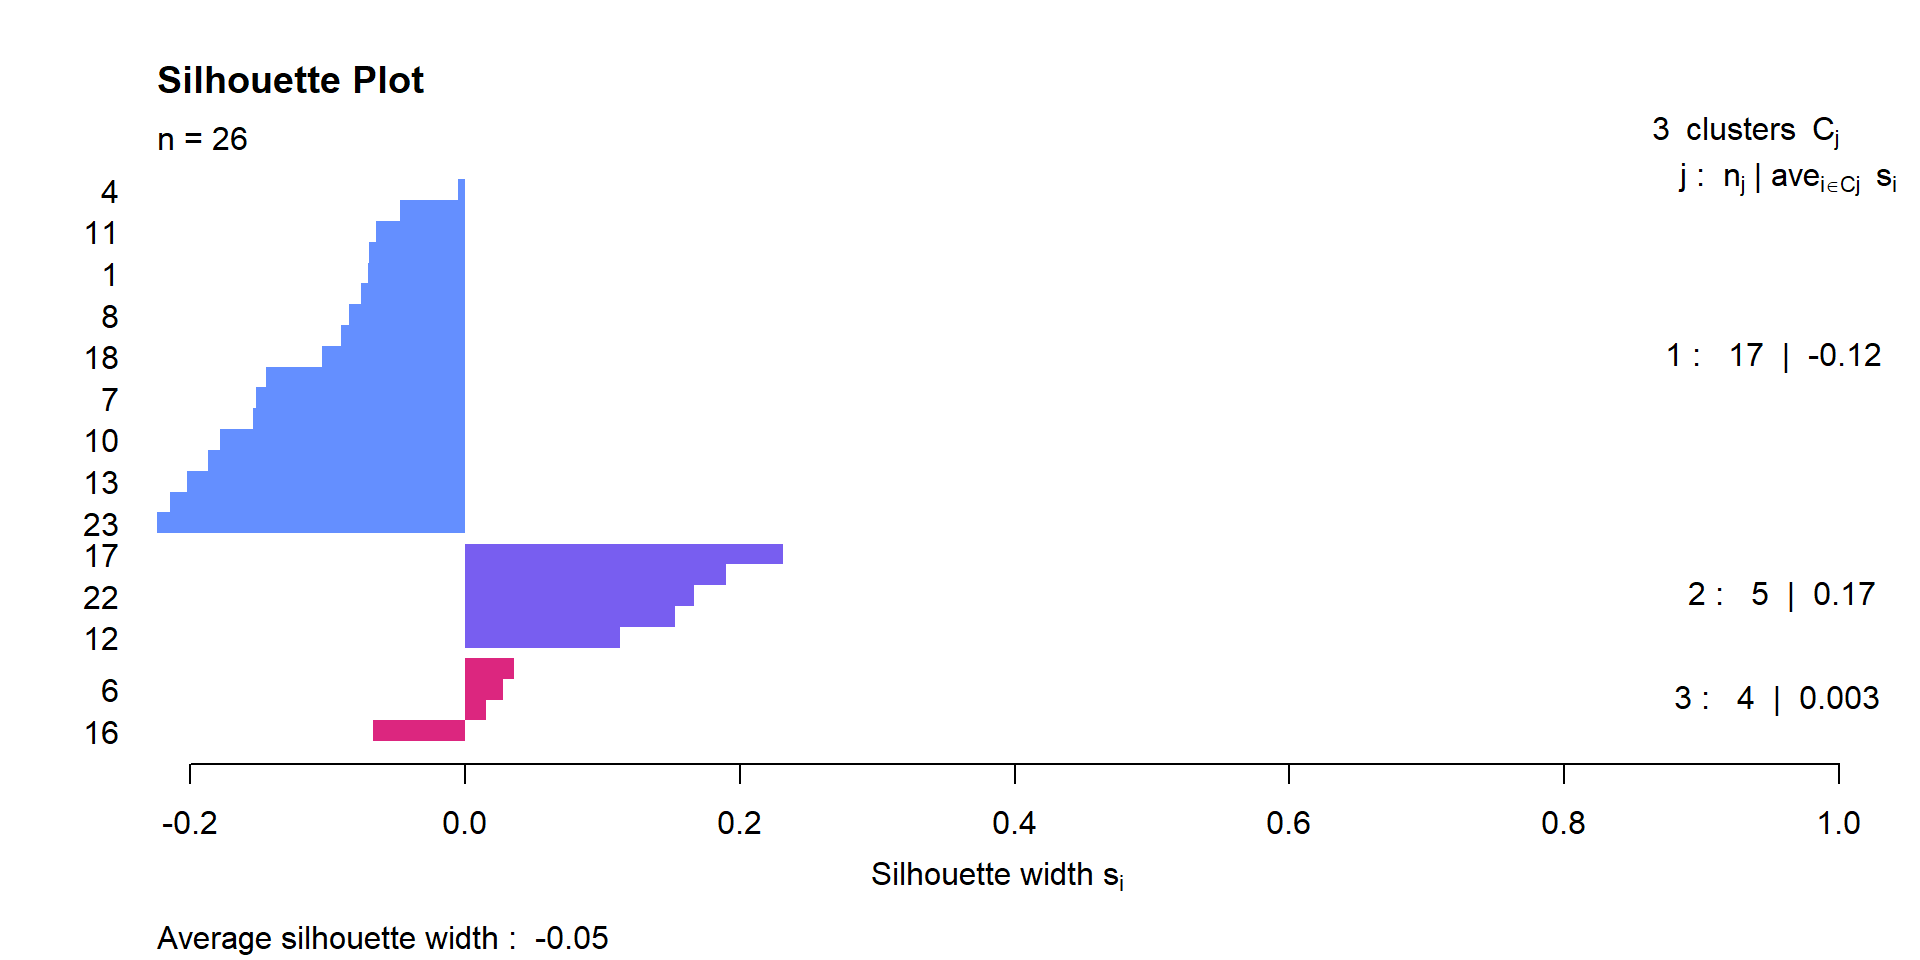
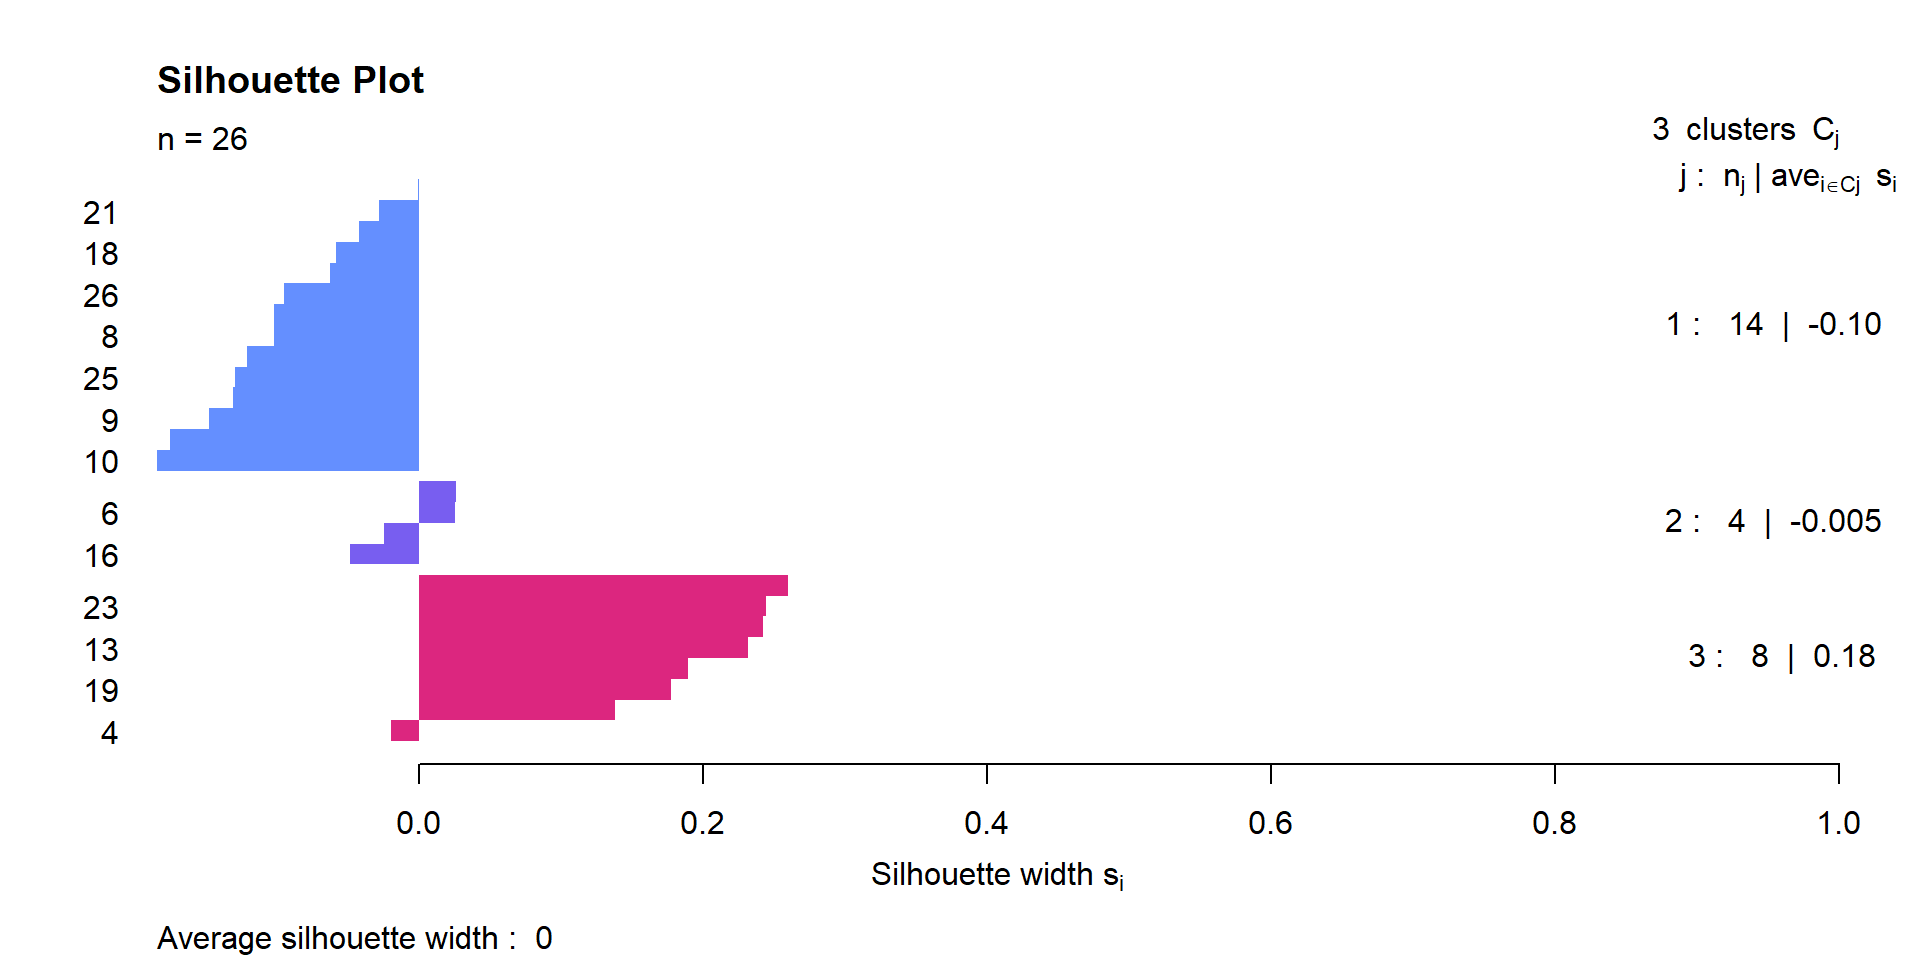
presentation stuff

diff --git a/Text/Reports/Presentation.html b/Text/Reports/Presentation.html
@@ -1505,8 +1505,8 @@ Gaia Smith and Alice Thompson
 <h2>2.2 initial QQ-plots</h2>
 
 <img data-src="https://raw.githubusercontent.com/luke8471/STAT394-GROUP-3/main/Figures/QQ_allnorm%201d.png" class="r-stretch"></section>
-<section id="perfroming-log-transformations" class="slide level2">
-<h2>2.3 Perfroming Log Transformations</h2>
+<section id="performing-log-transformations" class="slide level2">
+<h2>2.3 Performing Log Transformations</h2>
 
 <img data-src="https://raw.githubusercontent.com/luke8471/STAT394-GROUP-3/main/Figures/notchboxnorm.png" class="r-stretch"></section>
 <section id="henze-zirkler-test-for-multivariate-normality" class="slide level2">
@@ -1518,7 +1518,7 @@ Gaia Smith and Alice Thompson
 \text{ The data follows a multivariate normal distribution},
 \\
 \mathcal{H}_1 :&amp;
-\text{ The data do not follow a multivariate normal distribution}.
+\text{ The data does not follow a multivariate normal distribution}.
 \end{aligned}
 \]</span></p>
 </div>
@@ -1891,45 +1891,45 @@ Gaia Smith and Alice Thompson
 <tbody>
 <tr class="odd">
 <td style="text-align: left;">2</td>
-<td style="text-align: right;">0.3808610</td>
-<td style="text-align: right;">0.2839108</td>
-<td style="text-align: right;">0.3352282</td>
+<td style="text-align: right;">0.3642165</td>
+<td style="text-align: right;">0.3205779</td>
+<td style="text-align: right;">0.3152056</td>
 </tr>
 <tr class="even">
 <td style="text-align: left;">3</td>
-<td style="text-align: right;">0.3994904</td>
-<td style="text-align: right;">0.3025900</td>
-<td style="text-align: right;">0.2979197</td>
+<td style="text-align: right;">0.4192879</td>
+<td style="text-align: right;">0.3126837</td>
+<td style="text-align: right;">0.2680284</td>
 </tr>
 <tr class="odd">
 <td style="text-align: left;">5</td>
-<td style="text-align: right;">0.3951292</td>
-<td style="text-align: right;">0.2562405</td>
-<td style="text-align: right;">0.3486303</td>
+<td style="text-align: right;">0.3964731</td>
+<td style="text-align: right;">0.3498160</td>
+<td style="text-align: right;">0.2537109</td>
 </tr>
 <tr class="even">
 <td style="text-align: left;">6</td>
-<td style="text-align: right;">0.3964214</td>
-<td style="text-align: right;">0.3030350</td>
-<td style="text-align: right;">0.3005436</td>
+<td style="text-align: right;">0.3564183</td>
+<td style="text-align: right;">0.2702156</td>
+<td style="text-align: right;">0.3733661</td>
 </tr>
 <tr class="odd">
 <td style="text-align: left;">8</td>
-<td style="text-align: right;">0.3548860</td>
-<td style="text-align: right;">0.2434897</td>
-<td style="text-align: right;">0.4016243</td>
+<td style="text-align: right;">0.3731855</td>
+<td style="text-align: right;">0.4223339</td>
+<td style="text-align: right;">0.2044806</td>
 </tr>
 <tr class="even">
 <td style="text-align: left;">9</td>
-<td style="text-align: right;">0.3448716</td>
-<td style="text-align: right;">0.2596851</td>
-<td style="text-align: right;">0.3954432</td>
+<td style="text-align: right;">0.3308487</td>
+<td style="text-align: right;">0.3793640</td>
+<td style="text-align: right;">0.2897873</td>
 </tr>
 <tr class="odd">
 <td style="text-align: left;">10</td>
-<td style="text-align: right;">0.3987019</td>
-<td style="text-align: right;">0.2584034</td>
-<td style="text-align: right;">0.3428947</td>
+<td style="text-align: right;">0.3972201</td>
+<td style="text-align: right;">0.3416203</td>
+<td style="text-align: right;">0.2611597</td>
 </tr>
 <tr class="even">
 <td style="text-align: left;">11</td>
@@ -1939,33 +1939,33 @@ Gaia Smith and Alice Thompson
 </tr>
 <tr class="odd">
 <td style="text-align: left;">12</td>
-<td style="text-align: right;">0.4590163</td>
-<td style="text-align: right;">0.3743813</td>
-<td style="text-align: right;">0.1666023</td>
+<td style="text-align: right;">0.5056657</td>
+<td style="text-align: right;">0.1835340</td>
+<td style="text-align: right;">0.3108003</td>
 </tr>
 <tr class="even">
 <td style="text-align: left;">15</td>
-<td style="text-align: right;">0.4064680</td>
-<td style="text-align: right;">0.3074530</td>
-<td style="text-align: right;">0.2860789</td>
+<td style="text-align: right;">0.3788758</td>
+<td style="text-align: right;">0.2666590</td>
+<td style="text-align: right;">0.3544652</td>
 </tr>
 <tr class="odd">
 <td style="text-align: left;">16</td>
-<td style="text-align: right;">0.3951507</td>
-<td style="text-align: right;">0.2462246</td>
-<td style="text-align: right;">0.3586247</td>
+<td style="text-align: right;">0.3814978</td>
+<td style="text-align: right;">0.3462338</td>
+<td style="text-align: right;">0.2722684</td>
 </tr>
 <tr class="even">
 <td style="text-align: left;">18</td>
-<td style="text-align: right;">0.2977457</td>
-<td style="text-align: right;">0.4322926</td>
-<td style="text-align: right;">0.2699617</td>
+<td style="text-align: right;">0.3558813</td>
+<td style="text-align: right;">0.3226723</td>
+<td style="text-align: right;">0.3214464</td>
 </tr>
 <tr class="odd">
 <td style="text-align: left;">20</td>
-<td style="text-align: right;">0.4236822</td>
-<td style="text-align: right;">0.3502296</td>
-<td style="text-align: right;">0.2260882</td>
+<td style="text-align: right;">0.0000000</td>
+<td style="text-align: right;">0.0000000</td>
+<td style="text-align: right;">1.0000000</td>
 </tr>
 </tbody>
 </table>
@@ -1990,81 +1990,81 @@ Gaia Smith and Alice Thompson
 <tbody>
 <tr class="odd">
 <td style="text-align: left;">23</td>
-<td style="text-align: right;">0.4050991</td>
-<td style="text-align: right;">0.2507065</td>
-<td style="text-align: right;">0.3441944</td>
+<td style="text-align: right;">0.4224857</td>
+<td style="text-align: right;">0.3589670</td>
+<td style="text-align: right;">0.2185473</td>
 </tr>
 <tr class="even">
 <td style="text-align: left;">24</td>
-<td style="text-align: right;">0.3767881</td>
-<td style="text-align: right;">0.3403890</td>
-<td style="text-align: right;">0.2828230</td>
+<td style="text-align: right;">0.3166053</td>
+<td style="text-align: right;">0.2376488</td>
+<td style="text-align: right;">0.4457459</td>
 </tr>
 <tr class="odd">
 <td style="text-align: left;">26</td>
 <td style="text-align: right;">0.0000000</td>
-<td style="text-align: right;">0.0000000</td>
 <td style="text-align: right;">1.0000000</td>
+<td style="text-align: right;">0.0000000</td>
 </tr>
 <tr class="even">
 <td style="text-align: left;">27</td>
-<td style="text-align: right;">0.0000000</td>
-<td style="text-align: right;">1.0000000</td>
-<td style="text-align: right;">0.0000000</td>
+<td style="text-align: right;">0.3161169</td>
+<td style="text-align: right;">0.2755752</td>
+<td style="text-align: right;">0.4083079</td>
 </tr>
 <tr class="odd">
 <td style="text-align: left;">29</td>
-<td style="text-align: right;">0.3759377</td>
-<td style="text-align: right;">0.2859738</td>
-<td style="text-align: right;">0.3380885</td>
+<td style="text-align: right;">0.3857492</td>
+<td style="text-align: right;">0.3469122</td>
+<td style="text-align: right;">0.2673387</td>
 </tr>
 <tr class="even">
 <td style="text-align: left;">30</td>
-<td style="text-align: right;">0.3446866</td>
-<td style="text-align: right;">0.3314023</td>
-<td style="text-align: right;">0.3239112</td>
+<td style="text-align: right;">0.3323539</td>
+<td style="text-align: right;">0.3123218</td>
+<td style="text-align: right;">0.3553243</td>
 </tr>
 <tr class="odd">
 <td style="text-align: left;">31</td>
-<td style="text-align: right;">0.3267719</td>
-<td style="text-align: right;">0.3017146</td>
-<td style="text-align: right;">0.3715135</td>
+<td style="text-align: right;">0.3341482</td>
+<td style="text-align: right;">0.3798999</td>
+<td style="text-align: right;">0.2859519</td>
 </tr>
 <tr class="even">
 <td style="text-align: left;">32</td>
-<td style="text-align: right;">0.3975712</td>
-<td style="text-align: right;">0.2877853</td>
-<td style="text-align: right;">0.3146435</td>
+<td style="text-align: right;">0.3863466</td>
+<td style="text-align: right;">0.3057601</td>
+<td style="text-align: right;">0.3078933</td>
 </tr>
 <tr class="odd">
 <td style="text-align: left;">33</td>
-<td style="text-align: right;">0.3103118</td>
-<td style="text-align: right;">0.3632485</td>
-<td style="text-align: right;">0.3264398</td>
+<td style="text-align: right;">0.3072383</td>
+<td style="text-align: right;">0.3232066</td>
+<td style="text-align: right;">0.3695551</td>
 </tr>
 <tr class="even">
 <td style="text-align: left;">34</td>
-<td style="text-align: right;">0.3529295</td>
-<td style="text-align: right;">0.3328316</td>
-<td style="text-align: right;">0.3142389</td>
+<td style="text-align: right;">0.3259026</td>
+<td style="text-align: right;">0.2901749</td>
+<td style="text-align: right;">0.3839225</td>
 </tr>
 <tr class="odd">
 <td style="text-align: left;">35</td>
-<td style="text-align: right;">0.3675679</td>
-<td style="text-align: right;">0.3728005</td>
-<td style="text-align: right;">0.2596316</td>
+<td style="text-align: right;">0.3335817</td>
+<td style="text-align: right;">0.2356255</td>
+<td style="text-align: right;">0.4307928</td>
 </tr>
 <tr class="even">
 <td style="text-align: left;">36</td>
-<td style="text-align: right;">0.4021137</td>
-<td style="text-align: right;">0.3029690</td>
-<td style="text-align: right;">0.2949173</td>
+<td style="text-align: right;">0.4045562</td>
+<td style="text-align: right;">0.2967087</td>
+<td style="text-align: right;">0.2987351</td>
 </tr>
 <tr class="odd">
 <td style="text-align: left;">37</td>
-<td style="text-align: right;">0.3269203</td>
-<td style="text-align: right;">0.4374294</td>
-<td style="text-align: right;">0.2356503</td>
+<td style="text-align: right;">0.3983628</td>
+<td style="text-align: right;">0.2871473</td>
+<td style="text-align: right;">0.3144899</td>
 </tr>
 </tbody>
 </table>
